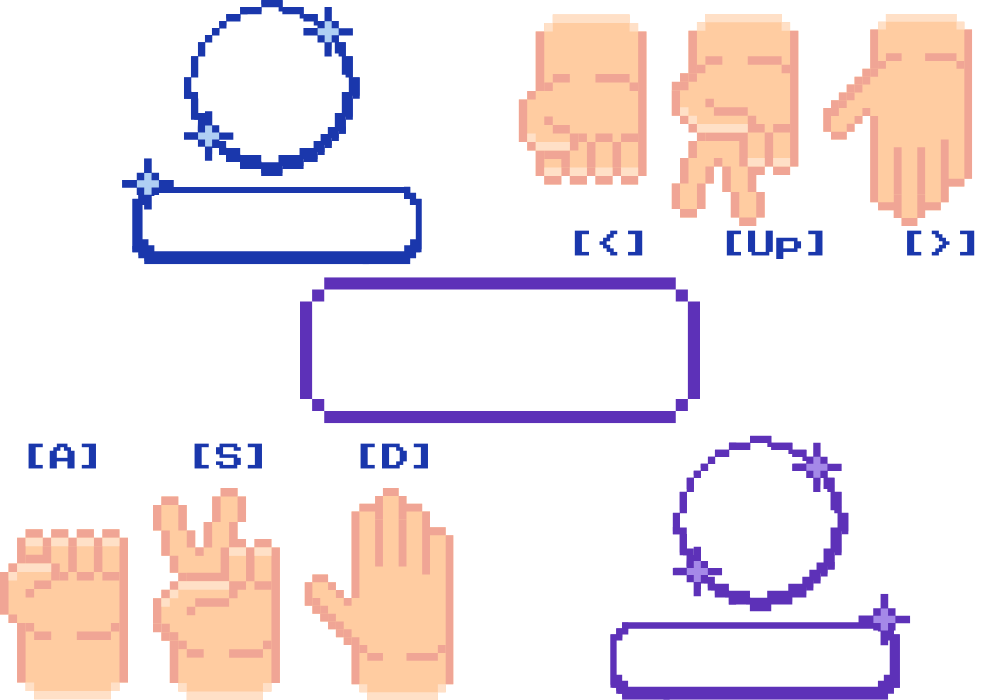
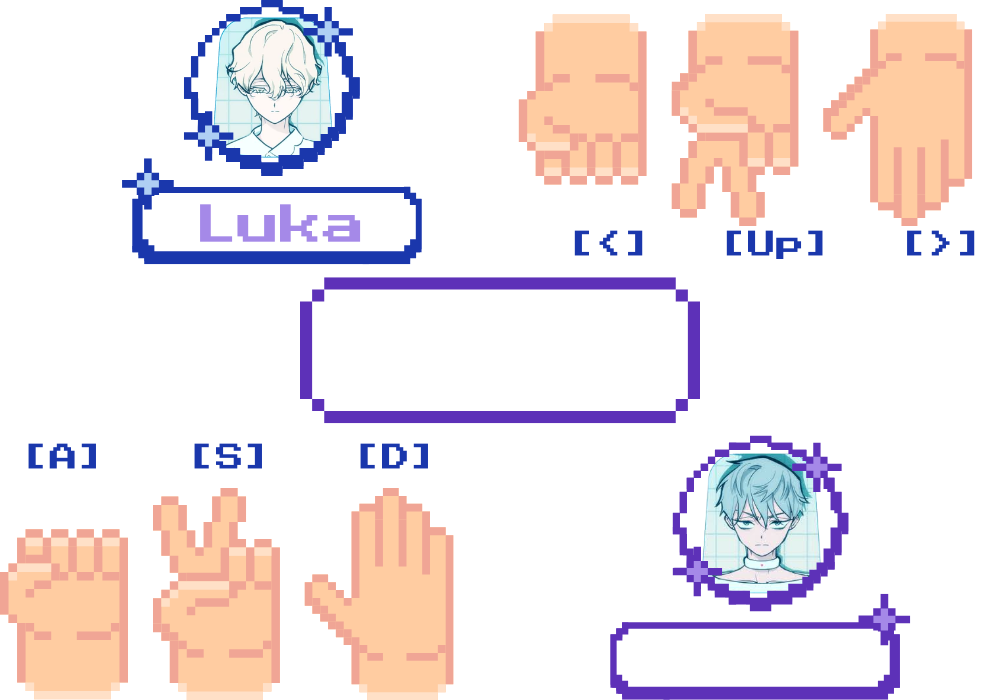
needs fixing don't work...

Changed region(s): [[0.682, 0.63, 0.837, 0.87], [0.217, 0.0, 0.341, 0.24], [0.186, 0.27, 0.372, 0.36]]

diff --git a/src/ButtonClass.java b/src/ButtonClass.java
@@ -26,6 +26,7 @@ public class ButtonClass {
     private Font pressStartFont;
     private TicTacToe ticTacToe;
     private JLabel TTTWin, TTTLose, TTTDraw, TTTNull;
+    private boolean[] pressedKeys;
 
 
     public ButtonClass(Frame cardLayoutPanel,Player player, JPanel mainPanel)  {
@@ -420,6 +421,14 @@ public class ButtonClass {
         });
 
         singleBtn.addActionListener(e -> {
+            pressedKeys = new boolean[128];
+            singleBtn.addKeyListener(new KeyAdapter() {
+                @Override
+                public void keyTyped(KeyEvent e) {
+                    int key = e.getKeyCode();
+                    pressedKeys[key] = true;
+                }
+            });
             vsAnimation();
         });
 
@@ -594,19 +603,48 @@ public class ButtonClass {
         this.mainPanel.add(animationPanel, "animation");
         this.cardLayoutPanel.showCard("animation");
 
-        JLabel usernameLabel = new JLabel("Round 1");
-        usernameLabel.setFont(pressStartFont.deriveFont(45f));
+        JLabel roundLabel = new JLabel("Round 1");
+        roundLabel.setFont(pressStartFont.deriveFont(45f));
         Color color = Color.decode("#5d31b8");
-        usernameLabel.setForeground(color);
-        usernameLabel.setBounds(335, 310, 500, 50);
+        roundLabel.setForeground(color);
+        roundLabel.setBounds(335, 310, 500, 50);
         //usernameLabel.setHorizontalAlignment(SwingConstants.CENTER);
+
+        JLabel usernameLabel = new JLabel(usernameText.getText());
+        usernameLabel.setFont(pressStartFont.deriveFont(45f));
+        Color color2 = Color.decode("#a589e8");
+        usernameLabel.setForeground(color2);
+        usernameLabel.setBounds(610, 600, 200, 50);
 
         JPanel roundScreen = cardLayoutPanel.getRoundScreen();
         roundScreen.setLayout(null);
+        roundScreen.add(roundLabel);
         roundScreen.add(usernameLabel);
         roundScreen.revalidate();
         roundScreen.repaint();
 
         SoundUtils.playSound("src/Round 1 Fight! (Mortal Kombat Meme) - Sound Effect for editing.wav");
+
+        if (pressedKeys[65]) {
+            //cardLayoutPanel.showCard();
+            if (aiPlayer() == 1) {
+                cardLayoutPanel.showCard("RockTie");
+            } else if (aiPlayer() == 2) {
+                cardLayoutPanel.showCard("RockWin");
+            } else {
+                cardLayoutPanel.showCard("RockLose");
+            }
+        } else if (pressedKeys[83]) {
+
+        } else if (pressedKeys[68]) {
+
+        } else {
+            System.out.println("Invalid");
+        }
+    }
+
+    private int aiPlayer() {
+        int num = (int) (Math.random() * 3-1+1) + 1;
+        return num;
     }
 }

diff --git a/src/Frame.java b/src/Frame.java
@@ -48,6 +48,9 @@ public class Frame extends JFrame implements ActionListener {
         JPanel ticTacToeDraw = PanelClass.createPanel("src/images/TicTacToeDraw.png");
         JPanel rpsScreen = PanelClass.createPanel("src/images/RockPaperScissorsGame/startScreen.png");
         roundScreen = PanelClass.createPanel("src/images/RockPaperScissorsGame/roundScreen.png");
+        JPanel rockTie = PanelClass.createPanel("src/images/RockPaperScissorsGame/RockTie.png");
+        JPanel rockWin = PanelClass.createPanel("src/images/RockPaperScissorsGame/RockWin.png");
+        JPanel rockLose = PanelClass.createPanel("src/images/RockPaperScissorsGame/RockLose.png");
 
 
 //        try {
@@ -223,6 +226,9 @@ public class Frame extends JFrame implements ActionListener {
         ticTacToeWin.setLayout(null);
         ticTacToeNull.setLayout(null);
         roundScreen.setLayout(null);
+        rockTie.setLayout(null);
+        rockLose.setLayout(null);
+        rockWin.setLayout(null);
 
         //add buttons
         startScreen.add(buttonClass.getUsernameText());
@@ -252,6 +258,7 @@ public class Frame extends JFrame implements ActionListener {
         rpsScreen.add(buttonClass.getSingleBtn());
         rpsScreen.add(buttonClass.getDoubleBtn());
 
+
         mainPanel.add(startScreen, "StartScreen");
         mainPanel.add(tutorialScreen, "TutorialScreen");
         mainPanel.add(backgroundScreen, "Background");
@@ -269,6 +276,10 @@ public class Frame extends JFrame implements ActionListener {
         mainPanel.add(ticTacToeWin, "TicTacToeWin");
         mainPanel.add(ticTacToeLose, "TicTacToeLose");
         mainPanel.add(roundScreen,"RoundScreen");
+        mainPanel.add(rockTie,"RockTie");
+        mainPanel.add(rockWin,"RockWin");
+        mainPanel.add(rockLose,"RockLose");
+
 
         livestreamScreen.add(scrollPane);
 
